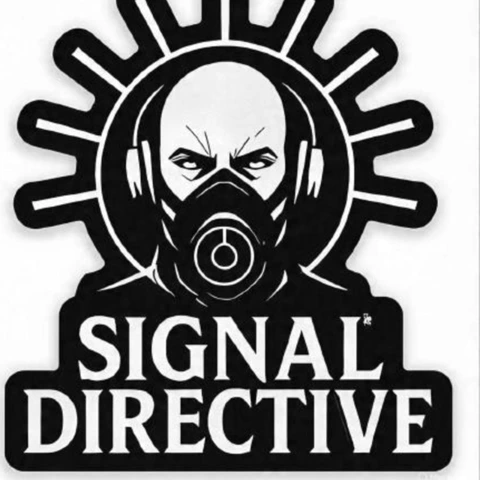
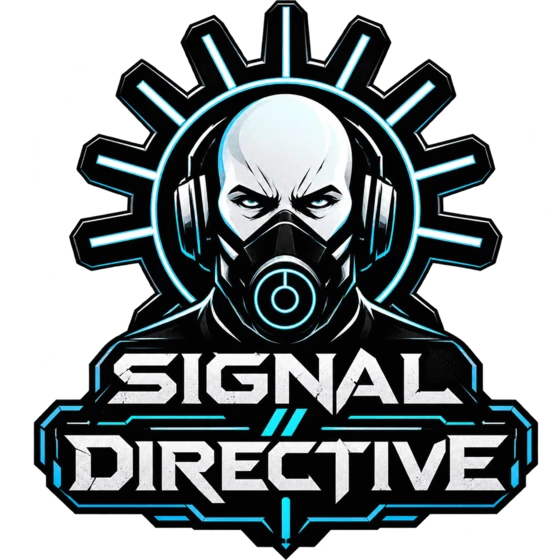
Swap in the new Cyberpunk Signal Directive emblem
Use the new transparent emblem for the hero disc badge and the favicon, keep the source artwork in assets, and drop the old multiply blend so the artwork sits cleanly on the cream card.

diff --git a/index.html b/index.html
@@ -101,7 +101,7 @@
                         <span class="orbit orbit-two"></span>
                         <div class="disc">
                             <div class="badge">
-                                <img src="assets/badge.webp" alt="" width="480" height="480">
+                                <img src="assets/badge.webp" alt="" width="560" height="560">
                             </div>
                         </div>
                     </div>

diff --git a/styles.css b/styles.css
@@ -566,7 +566,6 @@ section[id] {
 .badge img {
     width: 100%;
     height: auto;
-    mix-blend-mode: multiply;
 }
 
 .disc-caption {
